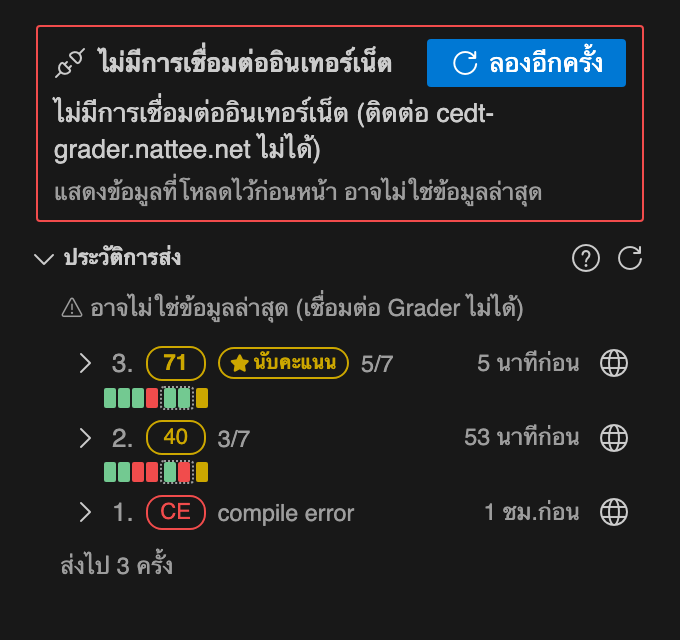
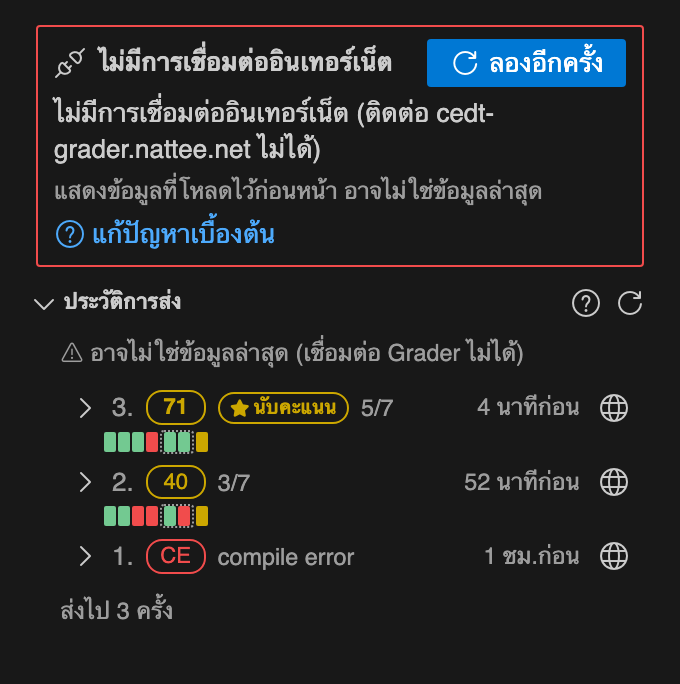
Phase 6 step 4: submit options (on by default) and a Troubleshooting link
- cedtGrader.saveBeforeSubmit (default on): save after the confirmation,
  before sending; a failed save submits nothing and says so.
- cedtGrader.revealResultAfterSubmit (default on): when grading finishes
  for the active file, the Result section opens and scrolls into view
  (keyboard focus stays in the editor).
- "Troubleshooting" (connection banner, under login errors, panel ⋯ menu,
  command cedtGrader.openTroubleshooting) opens the README section on
  GitHub in the display language; a test checks the anchors exist.
- READMEs: new settings and the link; banner pictures re-rendered.

diff --git a/src/controller.ts b/src/controller.ts
@@ -49,10 +49,11 @@ import { comparePaths, linkedNotice, mergeProblemFiles, noticeDismissed, noticeS
 import { pathKey } from './mapping/paths';
 import { confirmSuggestion } from './mapping/suggestionGate';
 import { freeName, invalidFileName, nameMatchesProblem, renameProposal } from './mapping/renameToProblem';
-import { CACHE, LIMITS, TIMING, WEB_PATHS } from './shared/constants';
+import { CACHE, LIMITS, TIMING, troubleshootingUrl, WEB_PATHS } from './shared/constants';
+import { needsSave, shouldRevealResult } from './shared/submitOptions';
 import { MATCH_SOURCE, PICK_HOW, S } from './shared/strings';
 import { KEYS } from './shared/stateKeys';
-import { dateLocale, resolveLang, setLanguage } from './shared/i18n';
+import { currentLang, dateLocale, resolveLang, setLanguage } from './shared/i18n';
 import type { HistoryEntry, ProblemFilter, ProblemView, ResultView, SubmissionDetailView, ViewState } from './shared/messages';
 
 /** Dismissed "files for this problem" notices: problem id → notice signature (workspaceState; "Clear Cached Data" resets it). */
@@ -1482,7 +1483,7 @@ export class GraderController implements vscode.Disposable {
     this.focusTarget?.('problem-search');
   }
   /** Set by the sidebar provider: focus something inside the panel. */
-  focusTarget: ((t: 'login' | 'problem-search' | 'submit') => void) | null = null;
+  focusTarget: ((t: 'login' | 'problem-search' | 'submit' | 'result') => void) | null = null;
 
   /**
    * Click on a row of the problem list: open its linked file (several → most
@@ -2072,6 +2073,12 @@ export class GraderController implements vscode.Disposable {
         if (pick !== 'submit') return;
       }
 
+      // Save first (after the questions, so Cancel never saves): the grader gets what is on disk.
+      if (needsSave({ saveBeforeSubmit: this.cfg.saveBeforeSubmit, isDirty: doc.isDirty, isUntitled: doc.isUntitled }) && !(await doc.save())) {
+        this.setResult(key, newResult(problem, 'error', S.submit.saveFailed(fileName)));
+        return;
+      }
+
       // Busy from here on (questions above don't lock the panel).
       this.busy = true;
       this.gradingFile = key;
@@ -2125,6 +2132,14 @@ export class GraderController implements vscode.Disposable {
     const updated = this.currentProblem();
     const after = updated ? countedScore(updated.bestScore, updated.list?.cost ?? 0, updated.list?.rawSum ?? false) : null;
     this.updateResult(key, { improvement: describeImprovement(countedBefore, after, final.points) });
+    if (shouldRevealResult({ revealResultAfterSubmit: this.cfg.revealResultAfterSubmit, gradedFile: key, activeFile: this.fileUri?.fsPath ?? null })) {
+      this.focusTarget?.('result');
+    }
+  }
+
+  /** README troubleshooting section on GitHub, in the display language. */
+  async openTroubleshooting(): Promise<void> {
+    await vscode.env.openExternal(vscode.Uri.parse(troubleshootingUrl(currentLang()), true));
   }
 
   /** Continue a submission whose result could not be fetched (Retry, or connection back). */

diff --git a/test/submitOptions.test.ts b/test/submitOptions.test.ts
@@ -1,0 +1,49 @@
+import { readFileSync } from 'node:fs';
+import { join } from 'node:path';
+import { describe, expect, it } from 'vitest';
+import { needsSave, shouldRevealResult } from '../src/shared/submitOptions';
+import { REPO_URL, TROUBLESHOOTING, troubleshootingUrl } from '../src/shared/constants';
+
+const root = join(__dirname, '..');
+
+describe('save before submit', () => {
+  it('saves only an edited, saved-before file, and only when the setting is on', () => {
+    expect(needsSave({ saveBeforeSubmit: true, isDirty: true, isUntitled: false })).toBe(true);
+    expect(needsSave({ saveBeforeSubmit: true, isDirty: false, isUntitled: false })).toBe(false);
+    expect(needsSave({ saveBeforeSubmit: false, isDirty: true, isUntitled: false })).toBe(false);
+    expect(needsSave({ saveBeforeSubmit: true, isDirty: true, isUntitled: true })).toBe(false);
+  });
+});
+
+describe('reveal the result', () => {
+  it('only for the file that was graded, when the setting is on', () => {
+    expect(shouldRevealResult({ revealResultAfterSubmit: true, gradedFile: '/a.cpp', activeFile: '/a.cpp' })).toBe(true);
+    expect(shouldRevealResult({ revealResultAfterSubmit: true, gradedFile: '/a.cpp', activeFile: '/b.cpp' })).toBe(false);
+    expect(shouldRevealResult({ revealResultAfterSubmit: false, gradedFile: '/a.cpp', activeFile: '/a.cpp' })).toBe(false);
+  });
+
+  it('both options are on by default', () => {
+    const props = JSON.parse(readFileSync(join(root, 'package.json'), 'utf8')).contributes.configuration.properties;
+    expect(props['cedtGrader.saveBeforeSubmit'].default).toBe(true);
+    expect(props['cedtGrader.revealResultAfterSubmit'].default).toBe(true);
+  });
+});
+
+describe('troubleshooting link', () => {
+  /** GitHub's heading anchors: lower case, punctuation dropped, spaces → "-" (Thai letters and marks kept). */
+  const slug = (h: string) => h.trim().toLowerCase().replace(/[^\p{L}\p{M}\p{N}\s-]/gu, '').replace(/\s/g, '-');
+  const headings = (f: string) => [...readFileSync(join(root, f), 'utf8').matchAll(/^#{1,6} (.+)$/gm)].map((m) => slug(m[1]));
+
+  it('points at a heading that exists in each README', () => {
+    for (const lang of ['en', 'th'] as const) {
+      const t = TROUBLESHOOTING[lang];
+      expect(headings(t.file), `${t.file}#${t.anchor}`).toContain(t.anchor);
+    }
+  });
+
+  it('is the repository URL with the anchor encoded', () => {
+    expect(troubleshootingUrl('en')).toBe(`${REPO_URL}/blob/main/README.md#troubleshooting`);
+    expect(troubleshootingUrl('th')).toBe(`${REPO_URL}/blob/main/README.th.md#${encodeURIComponent('การแก้ปัญหาเบื้องต้น')}`);
+    expect(JSON.parse(readFileSync(join(root, 'package.json'), 'utf8')).repository.url).toBe(`${REPO_URL}.git`);
+  });
+});

diff --git a/webview/main.ts b/webview/main.ts
@@ -71,6 +71,11 @@ const icon = (name: string, extra = '') => el('span', { class: `codicon codicon-
  * Icon-only button: always a tooltip (`title`) and the same `aria-label`.
  * When disabled, the tooltip says why.
  */
+/** "Troubleshooting": the README section on GitHub (connection banner, login errors). */
+function troubleshootingLink(): HTMLButtonElement {
+  return el('button', { class: 'link small', type: 'button', title: W.troubleshootingTip, onclick: () => send({ type: 'openTroubleshooting' }) }, icon('question'), ' ', W.troubleshooting);
+}
+
 function iconButton(name: string, label: string, onclick: () => void, opts: { disabledReason?: string | null } = {}): HTMLButtonElement {
   const text = opts.disabledReason ? `${label} (${opts.disabledReason})` : label;
   return el('button', { class: 'icon-btn', title: text, 'aria-label': text, type: 'button', disabled: !!opts.disabledReason, onclick }, icon(name));
@@ -333,6 +338,7 @@ function renderBanner(s: ViewState): void {
     ),
     el('p', {}, c.message),
     (s.problems.loaded || s.history.items.length > 0) && el('p', { class: 'small muted' }, W.showingSavedData),
+    el('div', { class: 'row' }, troubleshootingLink()),
   ]);
 }
 
@@ -384,7 +390,7 @@ function renderAccount(s: ViewState): void {
     }
     b.append(loginForm);
   }
-  if (a.error) b.append(el('div', { class: 'error', role: 'alert' }, icon('error'), ' ', a.error));
+  if (a.error) b.append(el('div', { class: 'error', role: 'alert' }, icon('error'), ' ', a.error), el('div', { class: 'row' }, troubleshootingLink()));
 }
 
 function openPicker(): void {
@@ -1180,6 +1186,11 @@ window.addEventListener('message', (ev: MessageEvent<ToWebview>) => {
       (loginUser.value ? loginPass : loginUser).focus();
     } else if (m.target === 'problem-search') {
       openPicker();
+    } else if (m.target === 'result') {
+      // Grading finished: show the Result section without taking keyboard focus from the editor.
+      ui.collapsed.result = false;
+      sResult.details.open = true;
+      sResult.details.scrollIntoView?.({ block: 'nearest' });
     } else {
       document.getElementById('submit-btn')?.focus();
     }

diff --git a/test/webview.test.ts b/test/webview.test.ts
@@ -405,6 +405,24 @@ describe.runIf(existsSync(resolve(__dirname, '../esbuild.mjs')))('sidebar webvie
     expect(problems).toEqual([]);
   });
 
+  it('troubleshooting link in the connection banner and under a login error; Result revealed after grading', () => {
+    const { doc, sent, post, dom } = boot();
+    post({ ...loggedIn, connection: { kind: 'offline', title: 'No internet connection', message: 'x', action: 'retry' } });
+    const link = [...doc.querySelectorAll<HTMLButtonElement>('.banner button')].find((b) => b.textContent?.includes('Troubleshooting'))!;
+    expect(link.getAttribute('data-tip')).toBe('Open the troubleshooting guide on GitHub');
+    link.click();
+    expect(sent).toContainEqual({ type: 'openTroubleshooting' });
+    post({ ...base, account: { ...base.account, error: 'Wrong username or password.' } });
+    expect(doc.querySelector('#sec-account')!.textContent).toContain('Troubleshooting');
+    // Collapsed Result section: the host's "result" focus opens it.
+    post(loggedIn);
+    const result = doc.querySelector<HTMLDetailsElement>('#sec-result')!;
+    result.open = false;
+    result.dispatchEvent(new dom.window.Event('toggle'));
+    dom.window.dispatchEvent(new dom.window.MessageEvent('message', { data: { type: 'focus', target: 'result' } }));
+    expect(result.open).toBe(true);
+  });
+
   it('Thai: the panel is built in the language of <html lang> (texts from strings.th.ts)', () => {
     const out = boot('th');
     out.post(base);

diff --git a/src/shared/strings.th.ts b/src/shared/strings.th.ts
@@ -197,6 +197,7 @@ export const TH: Strings = {
       noSubmissionsYet: 'ยังไม่มีการส่ง',
       anotherFile: 'อีกไฟล์หนึ่ง',
       testLabel: (n, word) => `Test ${n}: ${word}`,
+      saveFailed: (file) => `บันทึก ${file} ไม่ได้ จึงยังไม่ได้ส่งอะไรไป บันทึกไฟล์แล้วส่งอีกครั้ง`,
     },
 
     account: {
@@ -376,6 +377,8 @@ export const TH: Strings = {
     nFilesLinked: (n) => `มี ${n} ไฟล์ที่เชื่อมกับโจทย์นี้`,
     hideTheList: 'ซ่อนรายการ',
     dismiss: 'ซ่อน',
+    troubleshooting: 'แก้ปัญหาเบื้องต้น',
+    troubleshootingTip: 'เปิดคู่มือแก้ปัญหาเบื้องต้นบน GitHub',
     renameToProblem: 'เปลี่ยนชื่อไฟล์ให้ตรงกับโจทย์',
     renameToProblemTip: (from, to) => `เปลี่ยนชื่อ ${from} เป็น ${to} (แก้ชื่อก่อนได้)`,
     dismissNoticeTip: 'ซ่อนประกาศนี้จนกว่าไฟล์ของโจทย์นี้จะเปลี่ยน',

diff --git a/src/config.ts b/src/config.ts
@@ -16,6 +16,10 @@ export interface GraderConfig {
   defaultLanguage: string;
   /** Size limit of downloaded files (statements, test cases), in MB. */
   cacheMaxMB: number;
+  /** Save the file before submitting, so the grader gets what is on disk (default on). */
+  saveBeforeSubmit: boolean;
+  /** Open and scroll to the Result section when grading finishes (default on). */
+  revealResultAfterSubmit: boolean;
   /** `en` (default), `th`, or `auto` (follow VS Code's display language). */
   displayLanguage: LangSetting;
 }
@@ -48,6 +52,8 @@ export function readConfig(): GraderConfig {
     statementBeside: c.get<boolean>('statementBeside', true) !== false,
     defaultLanguage: String(c.get<string>('defaultLanguage', 'C++') || 'C++'),
     displayLanguage: ((v) => (v === 'th' || v === 'auto' ? v : 'en'))(c.get<string>('displayLanguage', 'en')),
+    saveBeforeSubmit: c.get<boolean>('saveBeforeSubmit', true) !== false,
+    revealResultAfterSubmit: c.get<boolean>('revealResultAfterSubmit', true) !== false,
     cacheMaxMB: Math.max(CACHE.maxMbMinimum, Number(c.get('cacheMaxMB', CACHE.maxMbDefault)) || CACHE.maxMbDefault),
   };
 }

diff --git a/src/shared/constants.ts b/src/shared/constants.ts
@@ -20,6 +20,21 @@ export const DEFAULT_BASE_URL = 'https://cedt-grader.nattee.net';
  */
 export const SERVER_SCORE_CAP = 100;
 
+/** The extension's GitHub repository (README, troubleshooting). Keep in sync with package.json `repository`. */
+export const REPO_URL = 'https://github.com/Badvoic3/cedt-grader-vscode';
+
+/** README troubleshooting section per display language (GitHub heading anchors). */
+export const TROUBLESHOOTING = {
+  en: { file: 'README.md', anchor: 'troubleshooting' },
+  th: { file: 'README.th.md', anchor: 'การแก้ปัญหาเบื้องต้น' },
+} as const;
+
+/** Web address of the troubleshooting section (anchor percent-encoded). */
+export function troubleshootingUrl(lang: keyof typeof TROUBLESHOOTING): string {
+  const t = TROUBLESHOOTING[lang];
+  return `${REPO_URL}/blob/main/${t.file}#${encodeURIComponent(t.anchor)}`;
+}
+
 /** Website paths (opened in the browser; never fetched). */
 export const WEB_PATHS = {
   problem: (id: number) => `/submissions/direct_edit_problem/${id}`,

diff --git a/src/shared/messages.ts b/src/shared/messages.ts
@@ -212,7 +212,7 @@ export interface ViewState {
 }
 
 /** Host → webview. */
-export type ToWebview = { type: 'state'; state: ViewState } | { type: 'focus'; target: 'login' | 'problem-search' | 'submit' };
+export type ToWebview = { type: 'state'; state: ViewState } | { type: 'focus'; target: 'login' | 'problem-search' | 'submit' | 'result' };
 
 /** Webview → host. The password is only ever carried by `login`. */
 export type FromWebview =
@@ -251,7 +251,8 @@ export type FromWebview =
   | { type: 'renameFileToProblem' }
   | { type: 'cphTip'; action: 'install' | 'later' | 'never' }
   | { type: 'showCompilerMessage' }
-  | { type: 'openSettings' };
+  | { type: 'openSettings' }
+  | { type: 'openTroubleshooting' };
 
 export function isFromWebview(m: unknown): m is FromWebview {
   return typeof m === 'object' && m !== null && typeof (m as { type?: unknown }).type === 'string';

diff --git a/src/shared/strings.ts b/src/shared/strings.ts
@@ -195,6 +195,7 @@ const EN_S = {
     noSubmissionsYet: 'No submissions yet.',
     anotherFile: 'another file',
     testLabel: (n: number, word: string) => `Test ${n}: ${word}`,
+    saveFailed: (file: string) => `Couldn't save ${file}, so nothing was submitted. Save it, then submit again.`,
   },
 
   account: {
@@ -376,6 +377,8 @@ const EN_W = {
   nFilesLinked: (n: string | number) => `${n} files are linked to this problem`,
   hideTheList: "Hide the list",
   dismiss: 'Dismiss',
+  troubleshooting: 'Troubleshooting',
+  troubleshootingTip: 'Open the troubleshooting guide on GitHub',
   renameToProblem: 'Rename file to match the problem',
   renameToProblemTip: (from: string, to: string) => `Rename ${from} to ${to} (you can edit the name first)`,
   dismissNoticeTip: 'Hide this notice until the files for this problem change',

diff --git a/src/ui/sidebarProvider.ts b/src/ui/sidebarProvider.ts
@@ -50,7 +50,7 @@ export class SidebarProvider implements vscode.WebviewViewProvider, vscode.Dispo
     this.view.webview.html = this.html(this.view.webview, vscode.Uri.joinPath(this.extensionUri, 'media'));
   }
 
-  focus(target: 'login' | 'problem-search' | 'submit'): void {
+  focus(target: 'login' | 'problem-search' | 'submit' | 'result'): void {
     this.post({ type: 'focus', target });
   }
 
@@ -164,6 +164,9 @@ export class SidebarProvider implements vscode.WebviewViewProvider, vscode.Dispo
         return;
       case 'showCompilerMessage':
         await c.showCompilerMessage();
+        return;
+      case 'openTroubleshooting':
+        await c.openTroubleshooting();
         return;
       case 'openSettings':
         await vscode.commands.executeCommand('workbench.action.openSettings', 'cedtGrader');

diff --git a/src/shared/submitOptions.ts b/src/shared/submitOptions.ts
@@ -1,0 +1,14 @@
+/**
+ * What happens around a submission (settings `cedtGrader.saveBeforeSubmit`,
+ * `cedtGrader.revealResultAfterSubmit`; both on by default). No `vscode` import.
+ */
+
+/** Save first only when asked to and the editor has unsaved changes (an untitled file can't be submitted). */
+export function needsSave(opts: { saveBeforeSubmit: boolean; isDirty: boolean; isUntitled: boolean }): boolean {
+  return opts.saveBeforeSubmit && opts.isDirty && !opts.isUntitled;
+}
+
+/** Show the Result section when grading finished for the file that is still open. */
+export function shouldRevealResult(opts: { revealResultAfterSubmit: boolean; gradedFile: string; activeFile: string | null }): boolean {
+  return opts.revealResultAfterSubmit && opts.activeFile === opts.gradedFile;
+}

diff --git a/src/extension.ts b/src/extension.ts
@@ -74,6 +74,7 @@ export async function activate(ctx: vscode.ExtensionContext): Promise<void> {
     vscode.commands.registerCommand('cedtGrader.loadTestcases', () => controller.loadTestcases(false)),
     vscode.commands.registerCommand('cedtGrader.showRequestLog', () => controller.showRequestLog()),
     vscode.commands.registerCommand('cedtGrader.clearCache', () => controller.clearCachedData()),
+    vscode.commands.registerCommand('cedtGrader.openTroubleshooting', () => controller.openTroubleshooting()),
     // Read-only documents with the source of past submissions (for "Compare with current file").
     // Statement tabs reopen after a restart, from the disk cache (no request).
     vscode.window.registerWebviewPanelSerializer(StatementPanels.viewType, {
